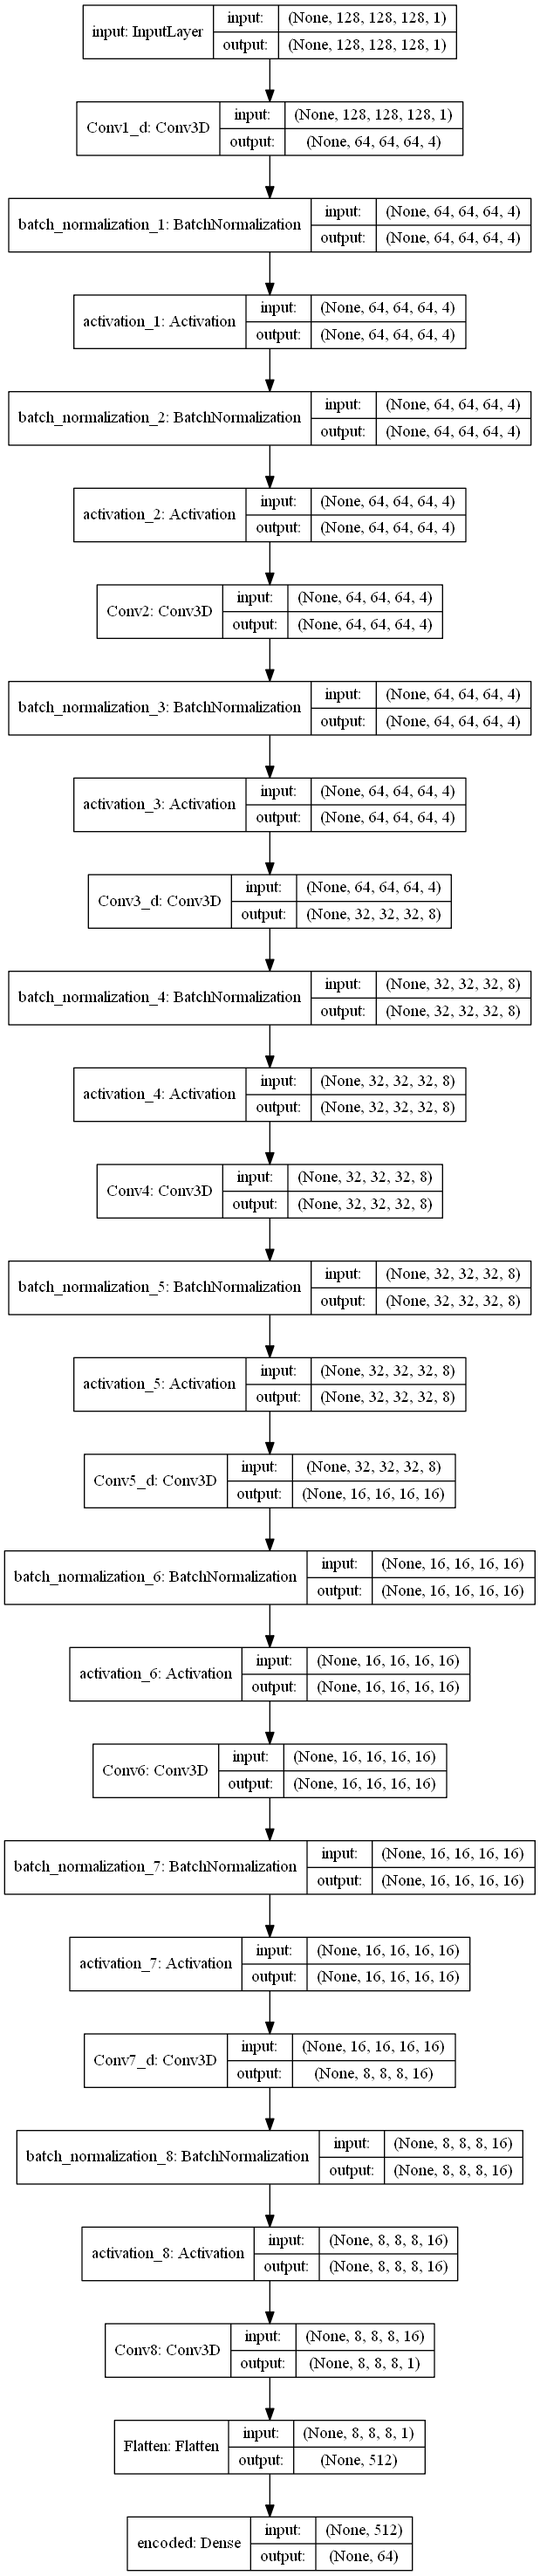
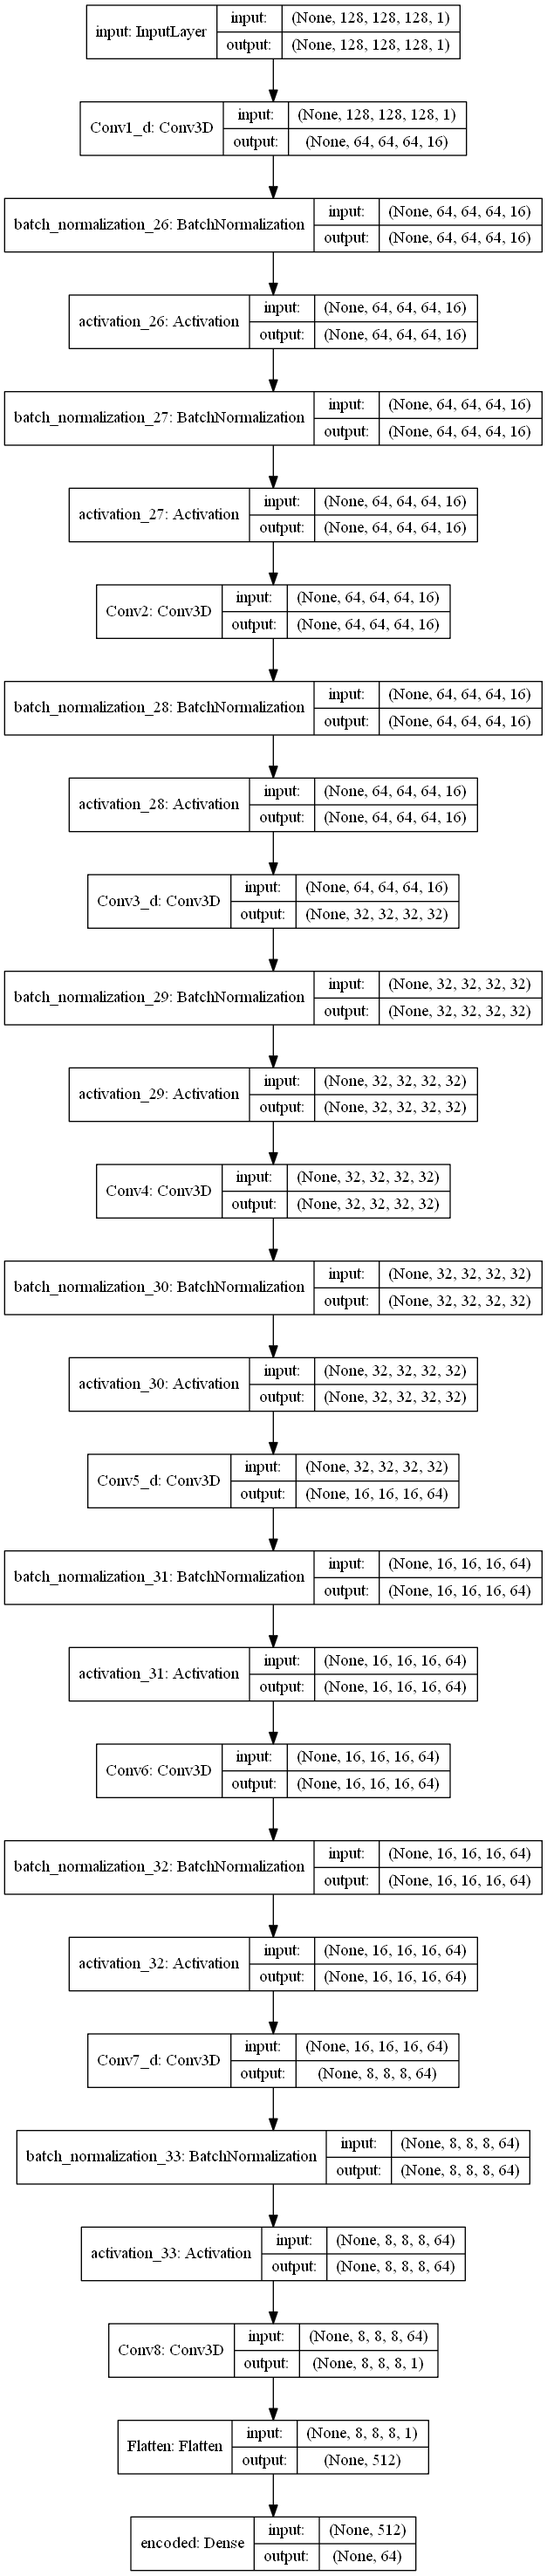
last stable

diff --git a/Models/CAE_3D.py b/Models/CAE_3D.py
@@ -69,9 +69,9 @@ def get_encoder_from_CAE3D(model):
 #    return decoder
 
 
-def FullModel(img_size, latent_dim, d=0.5):
+def FullModel(img_size, latent_dim, d=2):
     inLayer = tf.keras.layers.Input(shape=img_size, name='input')
-    x = ConvBN(inLayer, filters=8/d, strides=(2,2,2), name='Conv1_d')
+    x = ConvBN(inLayer, filters=int(8/d), strides=(2,2,2), name='Conv1_d')
     x = BNConv(x, filters=int(8/d), strides=(1,1,1), name='Conv2')
     x = BNConv(x, filters=int(16/d), strides=(2,2,2), name='Conv3_d')
     x = BNConv(x, filters=int(16/d), strides=(1,1,1), name='Conv4')
